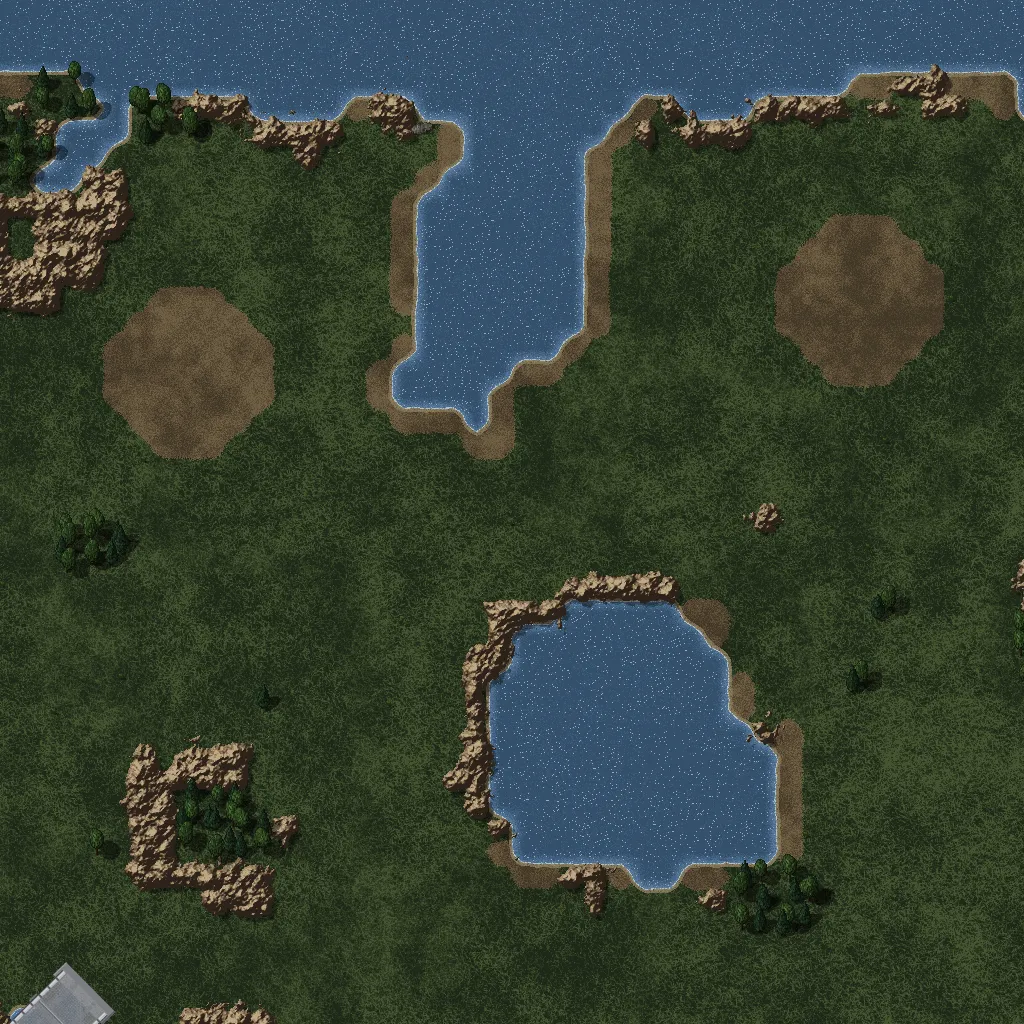
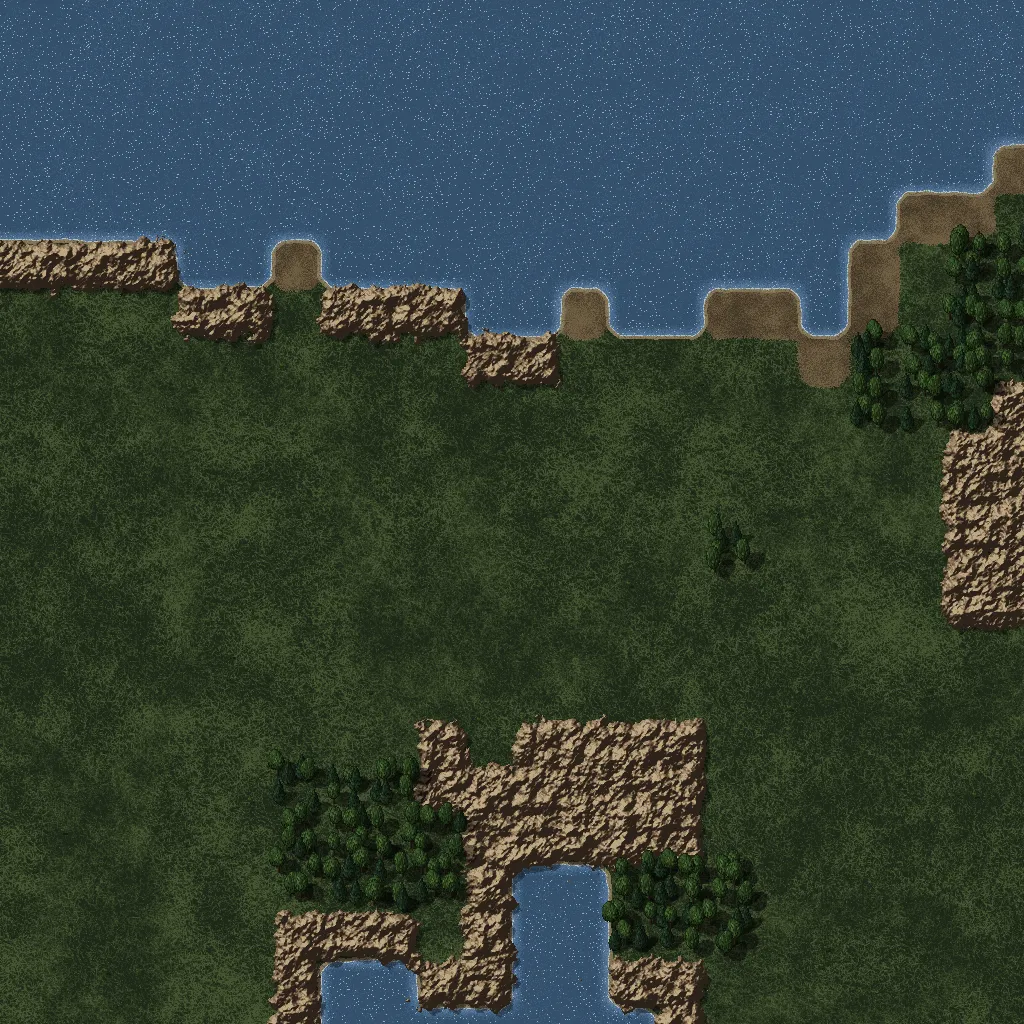
Lakeside enlarged to 192 x 192: 4x the ore per side after match 553c3209 ran dry
Claude-Session: https://claude.ai/code/session_018itzs7xwtG7LNa5DfNCJAi

diff --git a/src/maps.js b/src/maps.js
@@ -418,119 +418,215 @@ const MAPS = {
   lakes: {
     name: 'Lakeside',
     img: 'maps/lakes.png',
-    blurb: 'An island of lakes for 3 v 3. The north fights the south round the lakes in the middle: four bridges cross them, and narrow land joins the flanks. Every base has ore of its own, with gems behind each and out by the lakes.',
-    info: '96 × 96 cells · 6 start positions · made for 3 v 3',
+    blurb: 'A big island of lakes for 3 v 3. The north fights the south round the lakes in the middle: four bridges cross them, and narrow land joins the flanks. Every base has ore of its own, with gems behind each and out by the lakes.',
+    info: '192 × 192 cells · 6 start positions · made for 3 v 3',
     bridge: 'concrete',   // concrete bridges (art.js concreteBridge)
-    size: 96,   // cells a side, as in the design (one design cell is one game cell)
+    size: 192,   // cells a side: the design at twice its size (96 design cells, so each is 2 x 2 game cells; 96 until 2026.11.14.5, which ran out of ore)
     // The north (start positions 0-2) against the south (3-5); the design's two middle starts were removed (owner's call). Nearly symmetric by a half turn, so each start has a
     // twin on the other side. (The tool lists starts west first; they are reordered here.)
     teams: [[0, 1, 2], [3, 4, 5]],
     teamSize: 3,
     // A fixed layout, traced from the owner's design (maps/designs/lakes.png) by
-    // python3 tools/map-from-image.py maps/designs/lakes.png 96 96 --decks
+    // python3 tools/map-from-image.py maps/designs/lakes.png 96 192 --decks
     // Its bridges are diagonal (genLayoutMap fits each along its run). Ore as on Snowbound: the traced fields (every start
     // has its own), gem fields [x, y, radius] one behind each start position (same order as spawns), a pair where the middle starts were, then pairs out on
     // the map, twins by the half turn.
-    gems: [[11, 12, 2.4], [52, 10, 2.4], [84, 8, 2.4], [13, 81, 2.4], [54, 84, 2.4], [86, 80, 2.4], [10, 44, 2.4], [83, 47, 2.4],
-      [42, 22, 2.6], [56, 69, 2.6], [30, 58, 2.6], [66, 38, 2.6]],
-    spawns: [[17,16],[50,15],[78,12],[19,77],[50,79],[81,81]],
+    gems: [[23, 25, 3.2], [105, 21, 3.2], [169, 17, 3.2], [27, 163, 3.2], [109, 169, 3.2], [173, 161, 3.2], [21, 89, 3.2], [167, 95, 3.2],
+      [85, 45, 3.5], [113, 139, 3.5], [61, 117, 3.5], [133, 77, 3.5]],
+    spawns: [[35,33],[101,31],[157,25],[39,155],[101,159],[163,163]],
     rows: [
-      '96~',
-      '96~',
-      '96~',
-      '42~2,2T32~2,2#3,11~',
-      '7~4#29~2,.#3T~2T3#4~,2#9~,#3~4#.#.2#.,11~',
-      '7~#3o4#6~4#2~,11~,.3T#3~3T.o4#2.#.,6~,#.3#12.2,8~',
-      '7~#o.3o.#2~4#4.2#.3#2~,2~2,~,.4T2~5.3o#2o3.,5~,3.2o15.,7~',
-      '7~2.4o.3#14.2#5.,5T2~2#5.5o2.,6~,2.2o.o14.,7~',
-      '6~3.5o25.3T6#4.o.2o.o.,7~,3.2o16.7~',
-      '6~,4.o16.o2.8o2.2#.4#9.o.,7~,2.4o14.,7~',
-      '6~,22.8o.o2.2#.3#12.,7~,2.o.o14.,8~',
-      '6~,24.o.3oT3o.6#12.,7~,2.o.2o13.,8~',
-      '6~,24.o.6o2.4#14.,7~,4.o14.,8~',
-      '5~2,25.4o.4o19.7~,20.,7~',
-      '5~,28.8o17.,6~,22.,6~',
-      '5~,24.#.4#.5o16.,5~2,22.#7~',
-      '5~,21.3T6#2.o.o17.,4~,24.#7~',
-      '4~,22.4T5#.3o19.3,~,24.#7~',
-      '5~,21.4T#2~3T.2o22.2,24.#7~',
-      '5~,21.3#.#2~3T51.#7~',
-      '6~,20.#2~2#2~2#52.#7~',
-      '7~#19.#7~#38.#11.3#7~',
-      '7~#19.#7~#9.3T30.o.o5.#9~',
-      '7~#18.2#7~#9.3T28.4o.o3.2#9~',
-      '7~#18.#8~2#29.5#4.8o2.#10~',
-      '6~#19.#10~3#23.3#5~2,.5oT3o2.#10~',
-      '6~#7.o.7o3.#13~2,4.2o15.#8~,2.8o2.3T8~',
-      '6~#3T3.oT7o3T2#14~,11.o.o6.2#9~3.6o.o.4T#6~',
-      '6~#4T2.9o4T15~,6.5o.2o6.#10~,2.2oT5o.5T6~',
-      '6~#4T2.3o.4o.3T#13~2,5.2o.4oT5o3.#10~,3.2o.3o3.#2T#6~',
-      '8~3#6o.2o3T#15~,3.o.12o5.#11~#,.6o5.2#6~',
-      '10~#2o.o.3o.4T15~,4.4o#o3#4o.o3.#12~,2.5o5.#7~',
-      '9~#2.5o2.o4T16~#2.o.3o5#4o4.2#12~,3.2o2.o4.#7~',
-      '9~#2.7o4.#16~#3.4o2#3T6o3.#12~,3.o2.o5.#7~',
-      '9~#.3oT2o2.o4.#15~#2.5o2#4T#4o4.#11~,6.o5.#7~',
-      '9~#9o5.,15~#o2.2oTo2#4T2o.o5.,11~,12.#7~',
-      '9~.o.7o4.#16~#o3.3o6#4o6.2,2#,2~2,3T12.#7~',
-      '8~2.2o.7o3.#16~#o3.6o3#4o9.#4.#4T12.#6~',
-      '7~2,2.4o.2o5.#16~2#3.11o.o15.4T12.#6~',
-      '6~2,15.3#15~#4.6o.5o31.#6~',
-      '6~,19.2#13~12.2o2.o31.#6~',
-      '6~,20.#12~5.=9.3o32.#5~',
-      '6~,21.#12~,#3=4.4#36.,5~',
-      '6~,21.#13~4=#3,3~#35.,6~',
-      '7~#21.#11~4=#6~#7.#27.,7~',
-      '7~#21.,10~4=8~#35.,7~',
-      '7~#22.,8~4=8~#.3o11.2o19.,7~',
-      '7~#23.2,5~4=9~#3.o9.4o19.,7~',
-      '6~#.o24.,3~4=10~2.5o7.2o.2o18.,7~',
-      '6~#.2o24.,~4=#2,7~4.5o6.3o21.7~',
-      '6~#4o24.,3=#3.,7~,2.oT3o6.o4#18.,7~',
-      '6~#o.3o24.=6.,7~,2.6o5.o#3~2,15.,8~',
-      '6~2.3o13.3T17.8~,2.6o5.#5~,14.,8~',
-      '5~2.#.2o13.4T15.,9~#2.4o6.#6~3,11.,8~',
-      '6~,8#9.3T15.,10~4#o.2o5.#8~,12.,7~',
-      '7~2#2T4#26.#11~4#4.o.=3.#7~,13.,6~',
-      '5~,2~#4T2#26.#15~4#3=.3#6~,.2o.4o3.3T7~',
-      '4~,2.5#2T#25.2#18~4=#8~,2.3o2.2o.5T7~',
-      '4~,2.2#2~3#3T18.5#19~4=#8~,4.4o.o.3T2#7~',
-      '4~,3.o2~2T.3T18.#22~4=11~#.8o.3#9~',
-      '4~,.o2.2~2T#.2#5.o.3o6.3#21~4=12~#2.2oT4o.#11~',
-      '5~,.2o.3~4#3.o.o2.2o2.#.4#2T19~4=12~#4.6o.#11~',
-      '5~,3.o.2~4#5.5o2.2#2T#21~4=13~#2.5o.2o.#11~',
-      '6~,o.o2.2~3#.o.7o2.2#3T20~4=14~#.o.o.o2.2o.#11~',
-      '6~,2.o3.4#4.2oT3o2.2#2T#3T16~4=#,13~#5.2oT3.#11~',
-      '6~,6.2#3.o2.7o.4#.3T12~3#4=#2.3#10~o4.2o.o2.2#11~',
-      '6~,8.3o2.4o.o.o.3#4.,12~4.=7.#9~4.o3.o3.#12~',
-      '7~,6.2o3.4o2.o.o9.2,2~,6~13.3#.,5~,5.o.o3.#12~',
-      '7~,6.o5.2oTo.o.o4.2=3.2T2~,6~,13.2o2.2,~2,12.3#10~',
-      '8~,5.4o3.o3.4o4.4=3T~2.3,#,10.o2.o.o22.2#8~',
-      '9~#7.o3.o2.2o8.4=2~5.#11.o3.o.3o7.o13.#8~',
-      '9~#7.o4.o9.#2~4=18.oT11o2.2o14.#7~',
-      '9~#10.2o10.3~4=14.3T.o.5o.7o.o14.#7~',
-      '9~#10.2o8.#.2~2=.2=14.4T.2o.3o.9o14.#7~',
-      '9~#20.5#=3.2=12.3T.7oT2o.o.4o14.#7~',
-      '9~#20.2#3T#20.o.3o.9o.o15.2#6~',
-      '9~21.2#2T2#22.2o2.3o4.o.o.o15.,6~',
-      '8~22.6#23.o5.#.4#.2o15.,6~',
-      '8~,21.4#31.6#18.,6~',
-      '8~,56.6#18.,6~',
-      '8~,51.2=3.2#2~20.,6~',
-      '8~,52.4=2.2~20.,6~',
-      '9~28.3T22.4=2~22.2,4~',
-      '9~,27.4T19.#2~4=24.,4~',
-      '9~,13.3#9.2#4T19.3~4=23.#5~',
-      '10~#,8.2o.#2~8#.#2~3#8.o9.#2~3.2=19.3o.#5~',
-      '11~,6.4o2#10~2#4~#6.4o8.2#~.3T.2=16.4o.#5~',
-      '12~#5.o.2o#17~2#5.3o9.#~#.4T17.4o3.#4~',
-      '12~#4.4o.#18~#4.4o9.#~2#3T5#4.5#3.4o2.3#4~',
-      '12~2#4.3o.#18~2#.3o3#8.#3~3#6~4#5~,7.,7~',
-      '13~#5.o.2#20~4#3~,6.#3~.#18~,5.,8~',
-      '13~8#30~,3.3#2~3#20~3,10~',
-      '53~2,41~',
-      '96~',
-      '96~',
-      '96~',
+      '192~',
+      '192~',
+      '192~',
+      '192~',
+      '192~',
+      '192~',
+      '84~4,4T64~4,4#6,22~',
+      '84~4,4T64~4,4#6,22~',
+      '14~8#58~4,2.2#6T2~4T6#8~2,4#18~2,2#6~8#2.2#2.4#2.2,22~',
+      '14~8#58~4,2.2#6T2~4T6#8~2,4#18~2,2#6~8#2.2#2.4#2.2,22~',
+      '14~2#6o8#12~8#4~2,22~2,2.6T2#6~6T2.2o8#4.2#2.2,12~2,2#2.6#24.4,16~',
+      '14~2#6o8#12~8#4~2,22~2,2.6T2#6~6T2.2o8#4.2#2.2,12~2,2#2.6#24.4,16~',
+      '14~2#2o2.6o2.2#4~8#8.4#2.6#4~2,4~4,2~2,2.8T4~10.6o2#4o6.2,10~2,6.4o30.2,14~',
+      '14~2#2o2.6o2.2#4~8#8.4#2.6#4~2,4~4,2~2,2.8T4~10.6o2#4o6.2,10~2,6.4o30.2,14~',
+      '14~4.8o2.6#28.4#10.2,10T4~4#10.10o4.2,12~2,4.4o2.2o28.2,14~',
+      '14~4.8o2.6#28.4#10.2,10T4~4#10.10o4.2,12~2,4.4o2.2o28.2,14~',
+      '12~6.10o50.6T12#8.2o2.4o2.2o2.2,14~2,6.4o32.14~',
+      '12~6.10o50.6T12#8.2o2.4o2.2o2.2,14~2,6.4o32.14~',
+      '12~2,8.2o32.2o4.16o4.4#2.8#18.2o2.2,14~2,4.8o28.2,14~',
+      '12~2,8.2o32.2o4.16o4.4#2.8#18.2o2.2,14~2,4.8o28.2,14~',
+      '12~2,44.16o2.2o4.4#2.6#24.2,14~2,4.2o2.2o28.2,16~',
+      '12~2,44.16o2.2o4.4#2.6#24.2,14~2,4.2o2.2o28.2,16~',
+      '12~2,48.2o2.6o2T6o2.12#24.2,14~2,4.2o2.4o26.2,16~',
+      '12~2,48.2o2.6o2T6o2.12#24.2,14~2,4.2o2.4o26.2,16~',
+      '12~2,48.2o2.12o4.8#28.2,14~2,8.2o28.2,16~',
+      '12~2,48.2o2.12o4.8#28.2,14~2,8.2o28.2,16~',
+      '10~4,50.8o2.8o38.14~2,40.2,14~',
+      '10~4,50.8o2.8o38.14~2,40.2,14~',
+      '10~2,56.16o34.2,12~2,44.2,12~',
+      '10~2,56.16o34.2,12~2,44.2,12~',
+      '10~2,48.2#2.8#2.10o32.2,10~4,44.2#14~',
+      '10~2,48.2#2.8#2.10o32.2,10~4,44.2#14~',
+      '10~2,42.6T12#4.2o2.2o34.2,8~2,48.2#14~',
+      '10~2,42.6T12#4.2o2.2o34.2,8~2,48.2#14~',
+      '8~2,44.8T10#2.6o38.6,2~2,48.2#14~',
+      '8~2,44.8T10#2.6o38.6,2~2,48.2#14~',
+      '10~2,42.8T2#4~6T2.4o44.4,48.2#14~',
+      '10~2,42.8T2#4~6T2.4o44.4,48.2#14~',
+      '10~2,42.6#2.2#4~6T102.2#14~',
+      '10~2,42.6#2.2#4~6T102.2#14~',
+      '12~2,40.2#4~4#4~4#104.2#14~',
+      '12~2,40.2#4~4#4~4#104.2#14~',
+      '14~2#38.2#14~2#76.2#22.6#14~',
+      '14~2#38.2#14~2#76.2#22.6#14~',
+      '14~2#38.2#14~2#18.6T60.2o2.2o10.2#18~',
+      '14~2#38.2#14~2#18.6T60.2o2.2o10.2#18~',
+      '14~2#36.4#14~2#18.6T56.8o2.2o6.4#18~',
+      '14~2#36.4#14~2#18.6T56.8o2.2o6.4#18~',
+      '14~2#36.2#16~4#58.10#8.16o4.2#20~',
+      '14~2#36.2#16~4#58.10#8.16o4.2#20~',
+      '12~2#38.2#20~6#46.6#10~4,2.10o2T6o4.2#20~',
+      '12~2#38.2#20~6#46.6#10~4,2.10o2T6o4.2#20~',
+      '12~2#14.2o2.14o6.2#26~4,8.4o30.2#16~2,4.16o4.6T16~',
+      '12~2#14.2o2.14o6.2#26~4,8.4o30.2#16~2,4.16o4.6T16~',
+      '12~2#6T6.2o2T14o6T4#28~2,22.2o2.2o12.4#18~6.12o2.2o2.8T2#12~',
+      '12~2#6T6.2o2T14o6T4#28~2,22.2o2.2o12.4#18~6.12o2.2o2.8T2#12~',
+      '12~2#8T4.18o8T30~2,12.10o2.4o12.2#20~2,4.4o2T10o2.10T12~',
+      '12~2#8T4.18o8T30~2,12.10o2.4o12.2#20~2,4.4o2T10o2.10T12~',
+      '12~2#8T4.6o2.8o2.6T2#26~4,10.4o2.8o2T10o6.2#20~2,6.4o2.6o6.2#4T2#12~',
+      '12~2#8T4.6o2.8o2.6T2#26~4,10.4o2.8o2T10o6.2#20~2,6.4o2.6o6.2#4T2#12~',
+      '16~6#12o2.4o6T2#30~2,6.2o2.24o10.2#22~2#2,2.12o10.4#12~',
+      '16~6#12o2.4o6T2#30~2,6.2o2.24o10.2#22~2#2,2.12o10.4#12~',
+      '20~2#4o2.2o2.6o2.8T30~2,8.8o2#2o6#8o2.2o6.2#24~2,4.10o10.2#14~',
+      '20~2#4o2.2o2.6o2.8T30~2,8.8o2#2o6#8o2.2o6.2#24~2,4.10o10.2#14~',
+      '18~2#4.10o4.2o8T32~2#4.2o2.6o10#8o8.4#24~2,6.4o4.2o8.2#14~',
+      '18~2#4.10o4.2o8T32~2#4.2o2.6o10#8o8.4#24~2,6.4o4.2o8.2#14~',
+      '18~2#4.14o8.2#32~2#6.8o4#6T12o6.2#24~2,6.2o4.2o10.2#14~',
+      '18~2#4.14o8.2#32~2#6.8o4#6T12o6.2#24~2,6.2o4.2o10.2#14~',
+      '18~2#2.6o2T4o4.2o8.2#30~2#4.10o4#8T2#8o8.2#22~2,12.2o10.2#14~',
+      '18~2#2.6o2T4o4.2o8.2#30~2#4.10o4#8T2#8o8.2#22~2,12.2o10.2#14~',
+      '18~2#18o10.2,30~2#2o4.4o2T2o4#8T4o2.2o10.2,22~2,24.2#14~',
+      '18~2#18o10.2,30~2#2o4.4o2T2o4#8T4o2.2o10.2,22~2,24.2#14~',
+      '18~2.2o2.14o8.2#32~2#2o6.6o12#8o12.4,4#2,4~4,6T24.2#14~',
+      '18~2.2o2.14o8.2#32~2#2o6.6o12#8o12.4,4#2,4~4,6T24.2#14~',
+      '16~4.4o2.14o6.2#32~2#2o6.12o6#8o18.2#8.2#8T24.2#12~',
+      '16~4.4o2.14o6.2#32~2#2o6.12o6#8o18.2#8.2#8T24.2#12~',
+      '14~4,4.8o2.4o10.2#32~4#6.22o2.2o30.8T24.2#12~',
+      '14~4,4.8o2.4o10.2#32~4#6.22o2.2o30.8T24.2#12~',
+      '12~4,30.6#30~2#8.12o2.10o62.2#12~',
+      '12~4,30.6#30~2#8.12o2.10o62.2#12~',
+      '12~2,38.4#26~24.4o4.2o62.2#12~',
+      '12~2,38.4#26~24.4o4.2o62.2#12~',
+      '12~2,40.2#24~10.2=18.6o64.2#10~',
+      '12~2,40.2#24~10.2=18.6o64.2#10~',
+      '12~2,42.2#24~2,2#6=8.8#72.2,10~',
+      '12~2,42.2#24~2,2#6=8.8#72.2,10~',
+      '12~2,42.2#26~8=2#6,6~2#70.2,12~',
+      '12~2,42.2#26~8=2#6,6~2#70.2,12~',
+      '14~2#42.2#22~8=2#12~2#14.2#54.2,14~',
+      '14~2#42.2#22~8=2#12~2#14.2#54.2,14~',
+      '14~2#42.2,20~8=16~2#70.2,14~',
+      '14~2#42.2,20~8=16~2#70.2,14~',
+      '14~2#44.2,16~8=16~2#2.6o22.4o38.2,14~',
+      '14~2#44.2,16~8=16~2#2.6o22.4o38.2,14~',
+      '14~2#46.4,10~8=18~2#6.2o18.8o38.2,14~',
+      '14~2#46.4,10~8=18~2#6.2o18.8o38.2,14~',
+      '12~2#2.2o48.2,6~8=20~4.10o14.4o2.4o36.2,14~',
+      '12~2#2.2o48.2,6~8=20~4.10o14.4o2.4o36.2,14~',
+      '12~2#2.4o48.2,2~8=2#4,14~8.10o12.6o42.14~',
+      '12~2#2.4o48.2,2~8=2#4,14~8.10o12.6o42.14~',
+      '12~2#8o48.2,6=2#6.2,14~2,4.2o2T6o12.2o8#36.2,14~',
+      '12~2#8o48.2,6=2#6.2,14~2,4.2o2T6o12.2o8#36.2,14~',
+      '12~2#2o2.6o48.2=12.2,14~2,4.12o10.2o2#6~4,30.2,16~',
+      '12~2#2o2.6o48.2=12.2,14~2,4.12o10.2o2#6~4,30.2,16~',
+      '12~4.6o26.6T34.16~2,4.12o10.2#10~2,28.2,16~',
+      '12~4.6o26.6T34.16~2,4.12o10.2#10~2,28.2,16~',
+      '10~4.2#2.4o26.8T30.2,18~2#4.8o12.2#12~6,22.2,16~',
+      '10~4.2#2.4o26.8T30.2,18~2#4.8o12.2#12~6,22.2,16~',
+      '12~2,16#18.6T30.2,20~8#2o2.4o10.2#16~2,24.2,14~',
+      '12~2,16#18.6T30.2,20~8#2o2.4o10.2#16~2,24.2,14~',
+      '14~4#4T8#52.2#22~8#8.2o2.2=6.2#14~2,26.2,12~',
+      '14~4#4T8#52.2#22~8#8.2o2.2=6.2#14~2,26.2,12~',
+      '10~2,4~2#8T4#52.2#30~8#6=2.6#12~2,2.4o2.8o6.6T14~',
+      '10~2,4~2#8T4#52.2#30~8#6=2.6#12~2,2.4o2.8o6.6T14~',
+      '8~2,4.10#4T2#50.4#36~8=2#16~2,4.6o4.4o2.10T14~',
+      '8~2,4.10#4T2#50.4#36~8=2#16~2,4.6o4.4o2.10T14~',
+      '8~2,4.4#4~6#6T36.10#38~8=2#16~2,8.8o2.2o2.6T4#14~',
+      '8~2,4.4#4~6#6T36.10#38~8=2#16~2,8.8o2.2o2.6T4#14~',
+      '8~2,6.2o4~4T2.6T36.2#44~8=22~2#2.16o2.6#18~',
+      '8~2,6.2o4~4T2.6T36.2#44~8=22~2#2.16o2.6#18~',
+      '8~2,2.2o4.4~4T2#2.4#10.2o2.6o12.6#42~8=24~2#4.4o2T8o2.2#22~',
+      '8~2,2.2o4.4~4T2#2.4#10.2o2.6o12.6#42~8=24~2#4.4o2T8o2.2#22~',
+      '10~2,2.4o2.6~8#6.2o2.2o4.4o4.2#2.8#4T38~8=24~2#8.12o2.2#22~',
+      '10~2,2.4o2.6~8#6.2o2.2o4.4o4.2#2.8#4T38~8=24~2#8.12o2.2#22~',
+      '10~2,6.2o2.4~8#10.10o4.4#4T2#42~8=26~2#4.10o2.4o2.2#22~',
+      '10~2,6.2o2.4~8#10.10o4.4#4T2#42~8=26~2#4.10o2.4o2.2#22~',
+      '12~2,2o2.2o4.4~6#2.2o2.14o4.4#6T40~8=28~2#2.2o2.2o2.2o4.4o2.2#22~',
+      '12~2,2o2.2o4.4~6#2.2o2.14o4.4#6T40~8=28~2#2.2o2.2o2.2o4.4o2.2#22~',
+      '12~2,4.2o6.8#8.4o2T6o4.4#4T2#6T32~8=2#2,26~2#10.4o2T6.2#22~',
+      '12~2,4.2o6.8#8.4o2T6o4.4#4T2#6T32~8=2#2,26~2#10.4o2T6.2#22~',
+      '12~2,12.4#6.2o4.14o2.8#2.6T24~6#8=2#4.6#20~2o8.4o2.2o4.4#22~',
+      '12~2,12.4#6.2o4.14o2.8#2.6T24~6#8=2#4.6#20~2o8.4o2.2o4.4#22~',
+      '12~2,16.6o4.8o2.2o2.2o2.6#8.2,24~8.2=14.2#18~8.2o6.2o6.2#24~',
+      '12~2,16.6o4.8o2.2o2.2o2.6#8.2,24~8.2=14.2#18~8.2o6.2o6.2#24~',
+      '14~2,12.4o6.8o4.2o2.2o18.4,4~2,12~26.6#2.2,10~2,10.2o2.2o6.2#24~',
+      '14~2,12.4o6.8o4.2o2.2o18.4,4~2,12~26.6#2.2,10~2,10.2o2.2o6.2#24~',
+      '14~2,12.2o10.4o2T2o2.2o2.2o8.4=6.4T4~2,12~2,26.4o4.4,2~4,24.6#20~',
+      '14~2,12.2o10.4o2T2o2.2o2.2o8.4=6.4T4~2,12~2,26.4o4.4,2~4,24.6#20~',
+      '16~2,10.8o6.2o6.8o8.8=6T2~4.6,2#2,20.2o4.2o2.2o44.4#16~',
+      '16~2,10.8o6.2o6.8o8.8=6T2~4.6,2#2,20.2o4.2o2.2o44.4#16~',
+      '18~2#14.2o6.2o4.4o16.8=4~10.2#22.2o6.2o2.6o14.2o26.2#16~',
+      '18~2#14.2o6.2o4.4o16.8=4~10.2#22.2o6.2o2.6o14.2o26.2#16~',
+      '18~2#14.2o8.2o18.2#4~8=36.2o2T22o4.4o28.2#14~',
+      '18~2#14.2o8.2o18.2#4~8=36.2o2T22o4.4o28.2#14~',
+      '18~2#20.4o20.6~8=28.6T2.2o2.10o2.14o2.2o28.2#14~',
+      '18~2#20.4o20.6~8=28.6T2.2o2.10o2.14o2.2o28.2#14~',
+      '18~2#20.4o16.2#2.4~4=2.4=28.8T2.4o2.6o2.18o28.2#14~',
+      '18~2#20.4o16.2#2.4~4=2.4=28.8T2.4o2.6o2.18o28.2#14~',
+      '18~2#40.10#2=6.4=24.6T2.14o2T4o2.2o2.8o28.2#14~',
+      '18~2#40.10#2=6.4=24.6T2.14o2T4o2.2o2.8o28.2#14~',
+      '18~2#40.4#6T2#40.2o2.6o2.18o2.2o30.4#12~',
+      '18~2#40.4#6T2#40.2o2.6o2.18o2.2o30.4#12~',
+      '18~42.4#4T4#44.4o4.6o8.2o2.2o2.2o30.2,12~',
+      '18~42.4#4T4#44.4o4.6o8.2o2.2o2.2o30.2,12~',
+      '16~44.12#46.2o10.2#2.8#2.4o30.2,12~',
+      '16~44.12#46.2o10.2#2.8#2.4o30.2,12~',
+      '16~2,42.8#62.12#36.2,12~',
+      '16~2,42.8#62.12#36.2,12~',
+      '16~2,112.12#36.2,12~',
+      '16~2,112.12#36.2,12~',
+      '16~2,102.4=6.4#4~40.2,12~',
+      '16~2,102.4=6.4#4~40.2,12~',
+      '16~2,104.8=4.4~40.2,12~',
+      '16~2,104.8=4.4~40.2,12~',
+      '18~56.6T44.8=4~44.4,8~',
+      '18~56.6T44.8=4~44.4,8~',
+      '18~2,54.8T38.2#4~8=48.2,8~',
+      '18~2,54.8T38.2#4~8=48.2,8~',
+      '18~2,26.6#18.4#8T38.6~8=46.2#10~',
+      '18~2,26.6#18.4#8T38.6~8=46.2#10~',
+      '20~2#2,16.4o2.2#4~16#2.2#4~6#16.2o18.2#4~6.4=38.6o2.2#10~',
+      '20~2#2,16.4o2.2#4~16#2.2#4~6#16.2o18.2#4~6.4=38.6o2.2#10~',
+      '22~2,12.8o4#20~4#8~2#12.8o16.4#2~2.6T2.4=32.8o2.2#10~',
+      '22~2,12.8o4#20~4#8~2#12.8o16.4#2~2.6T2.4=32.8o2.2#10~',
+      '24~2#10.2o2.4o2#34~4#10.6o18.2#2~2#2.8T34.8o6.2#8~',
+      '24~2#10.2o2.4o2#34~4#10.6o18.2#2~2#2.8T34.8o6.2#8~',
+      '24~2#8.8o2.2#36~2#8.8o18.2#2~4#6T10#8.10#6.8o4.6#8~',
+      '24~2#8.8o2.2#36~2#8.8o18.2#2~4#6T10#8.10#6.8o4.6#8~',
+      '24~4#8.6o2.2#36~4#2.6o6#16.2#6~6#12~8#10~2,14.2,14~',
+      '24~4#8.6o2.2#36~4#2.6o6#16.2#6~6#12~8#10~2,14.2,14~',
+      '26~2#10.2o2.4#40~8#6~2,12.2#6~2.2#36~2,10.2,16~',
+      '26~2#10.2o2.4#40~8#6~2,12.2#6~2.2#36~2,10.2,16~',
+      '26~16#60~2,6.6#4~6#40~6,20~',
+      '26~16#60~2,6.6#4~6#40~6,20~',
+      '106~4,82~',
+      '106~4,82~',
+      '192~',
+      '192~',
+      '192~',
+      '192~',
+      '192~',
+      '192~',
     ],
   },
 };

diff --git a/CLAUDE.md b/CLAUDE.md
@@ -417,7 +417,9 @@ share globals. Read this file first; the commit history explains every change in
 - `node tools/sim/teams.js <repo> 1 8 snowbound 3v3`: at 210 cells (with the ai-squads computer) about 750 units by minute 6
   and 150 s of CPU for 8 game minutes here (111 s on the 168 map with the same computer): watch the server's `cpu_pct`.
 
-## Map "Lakeside", a small 3 v 3 map (after 2026.11.14.1, not released, both modes)
+## Map "Lakeside", a 3 v 3 map (2026.11.14.3; enlarged to 192 after 2026.11.14.4, not released, both modes)
+
+- **Enlarged to 192 x 192** (owner's pick, both modes): match 553c3209 (3 v AI, 29 min) ran out of ore on the 96 map: 58,000 ore a side at the start against 1.8 million harvested by six sides (regrowth), and the computers out-harvested the humans. The same design now traces at 2 x (`map-from-image.py lakes.png 96 192 --decks`), so ore is about 4 x (203,000 a side; Three Crossings 197,000). Spawns and gems are the old ones x 2 + 1 (gem radii 3.2 / 3.5). Saves of a 96-cell Lakeside no longer continue. `teams.js <repo> 1 12 lakes 3v3`: no errors, 68 s CPU for 12 minutes. The 96-cell notes below are the original.
 
 - `MAPS.lakes`: traced 1:1 from `maps/designs/lakes.png` (96 design cells = **96 x 96** game cells, the size asked for),
   `teamSize: 3`, 6 starts: north (0-2) against south (3-5), nearly symmetric by a half turn; the design's two middle
